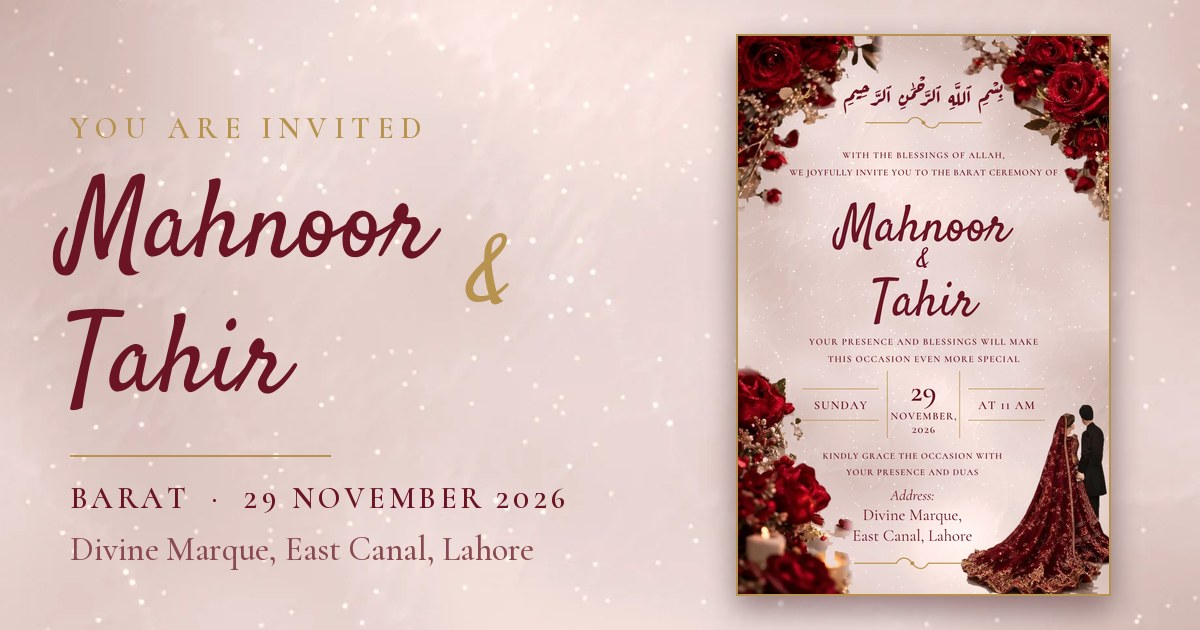
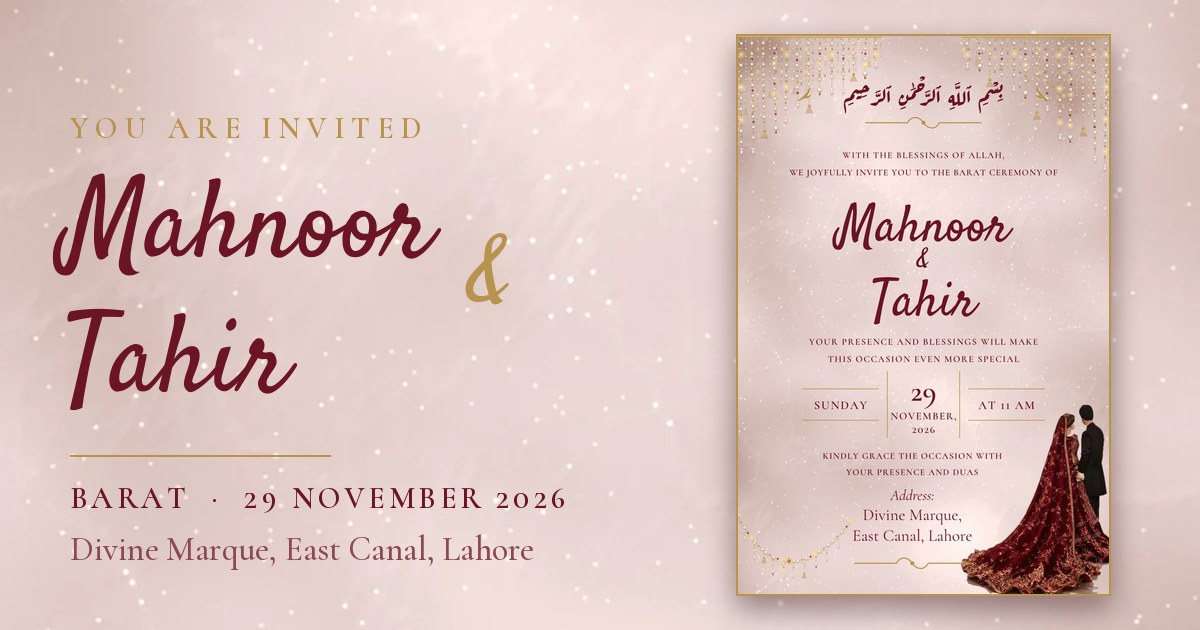
Mahnoor & Tahir: jewelled strings (pearls, crystals, tassels, ruby beads) replace the roses
Claude-Session: https://claude.ai/code/session_014mE54nZZVFzgToMktFZNKW

Changed region(s): [[0.6167, 0.573, 0.7092, 0.9651], [0.6167, 0.0302, 0.74, 0.3317], [0.8017, 0.0302, 0.925, 0.3619]]

diff --git a/index.html b/index.html
@@ -423,8 +423,8 @@
   <div class="box">
     <section class="cover" id="cover" aria-hidden="true">
       <img class="rc tl" src="assets/rose-tl.webp" alt="" width="870" height="1050" decoding="async">
-      <img class="rc tr" src="assets/rose-tr.webp" alt="" width="888" height="1260" decoding="async">
-      <img class="rc bl" src="assets/rose-bl.webp" alt="" width="690" height="1362" decoding="async">
+      <img class="rc tr" src="assets/rose-tr.webp" alt="" width="870" height="1050" decoding="async">
+      <img class="rc bl" src="assets/rose-bl.webp" alt="" width="870" height="900" decoding="async">
 
       <img class="couple" src="assets/couple.webp" alt="" width="353" height="447" decoding="async">
 
